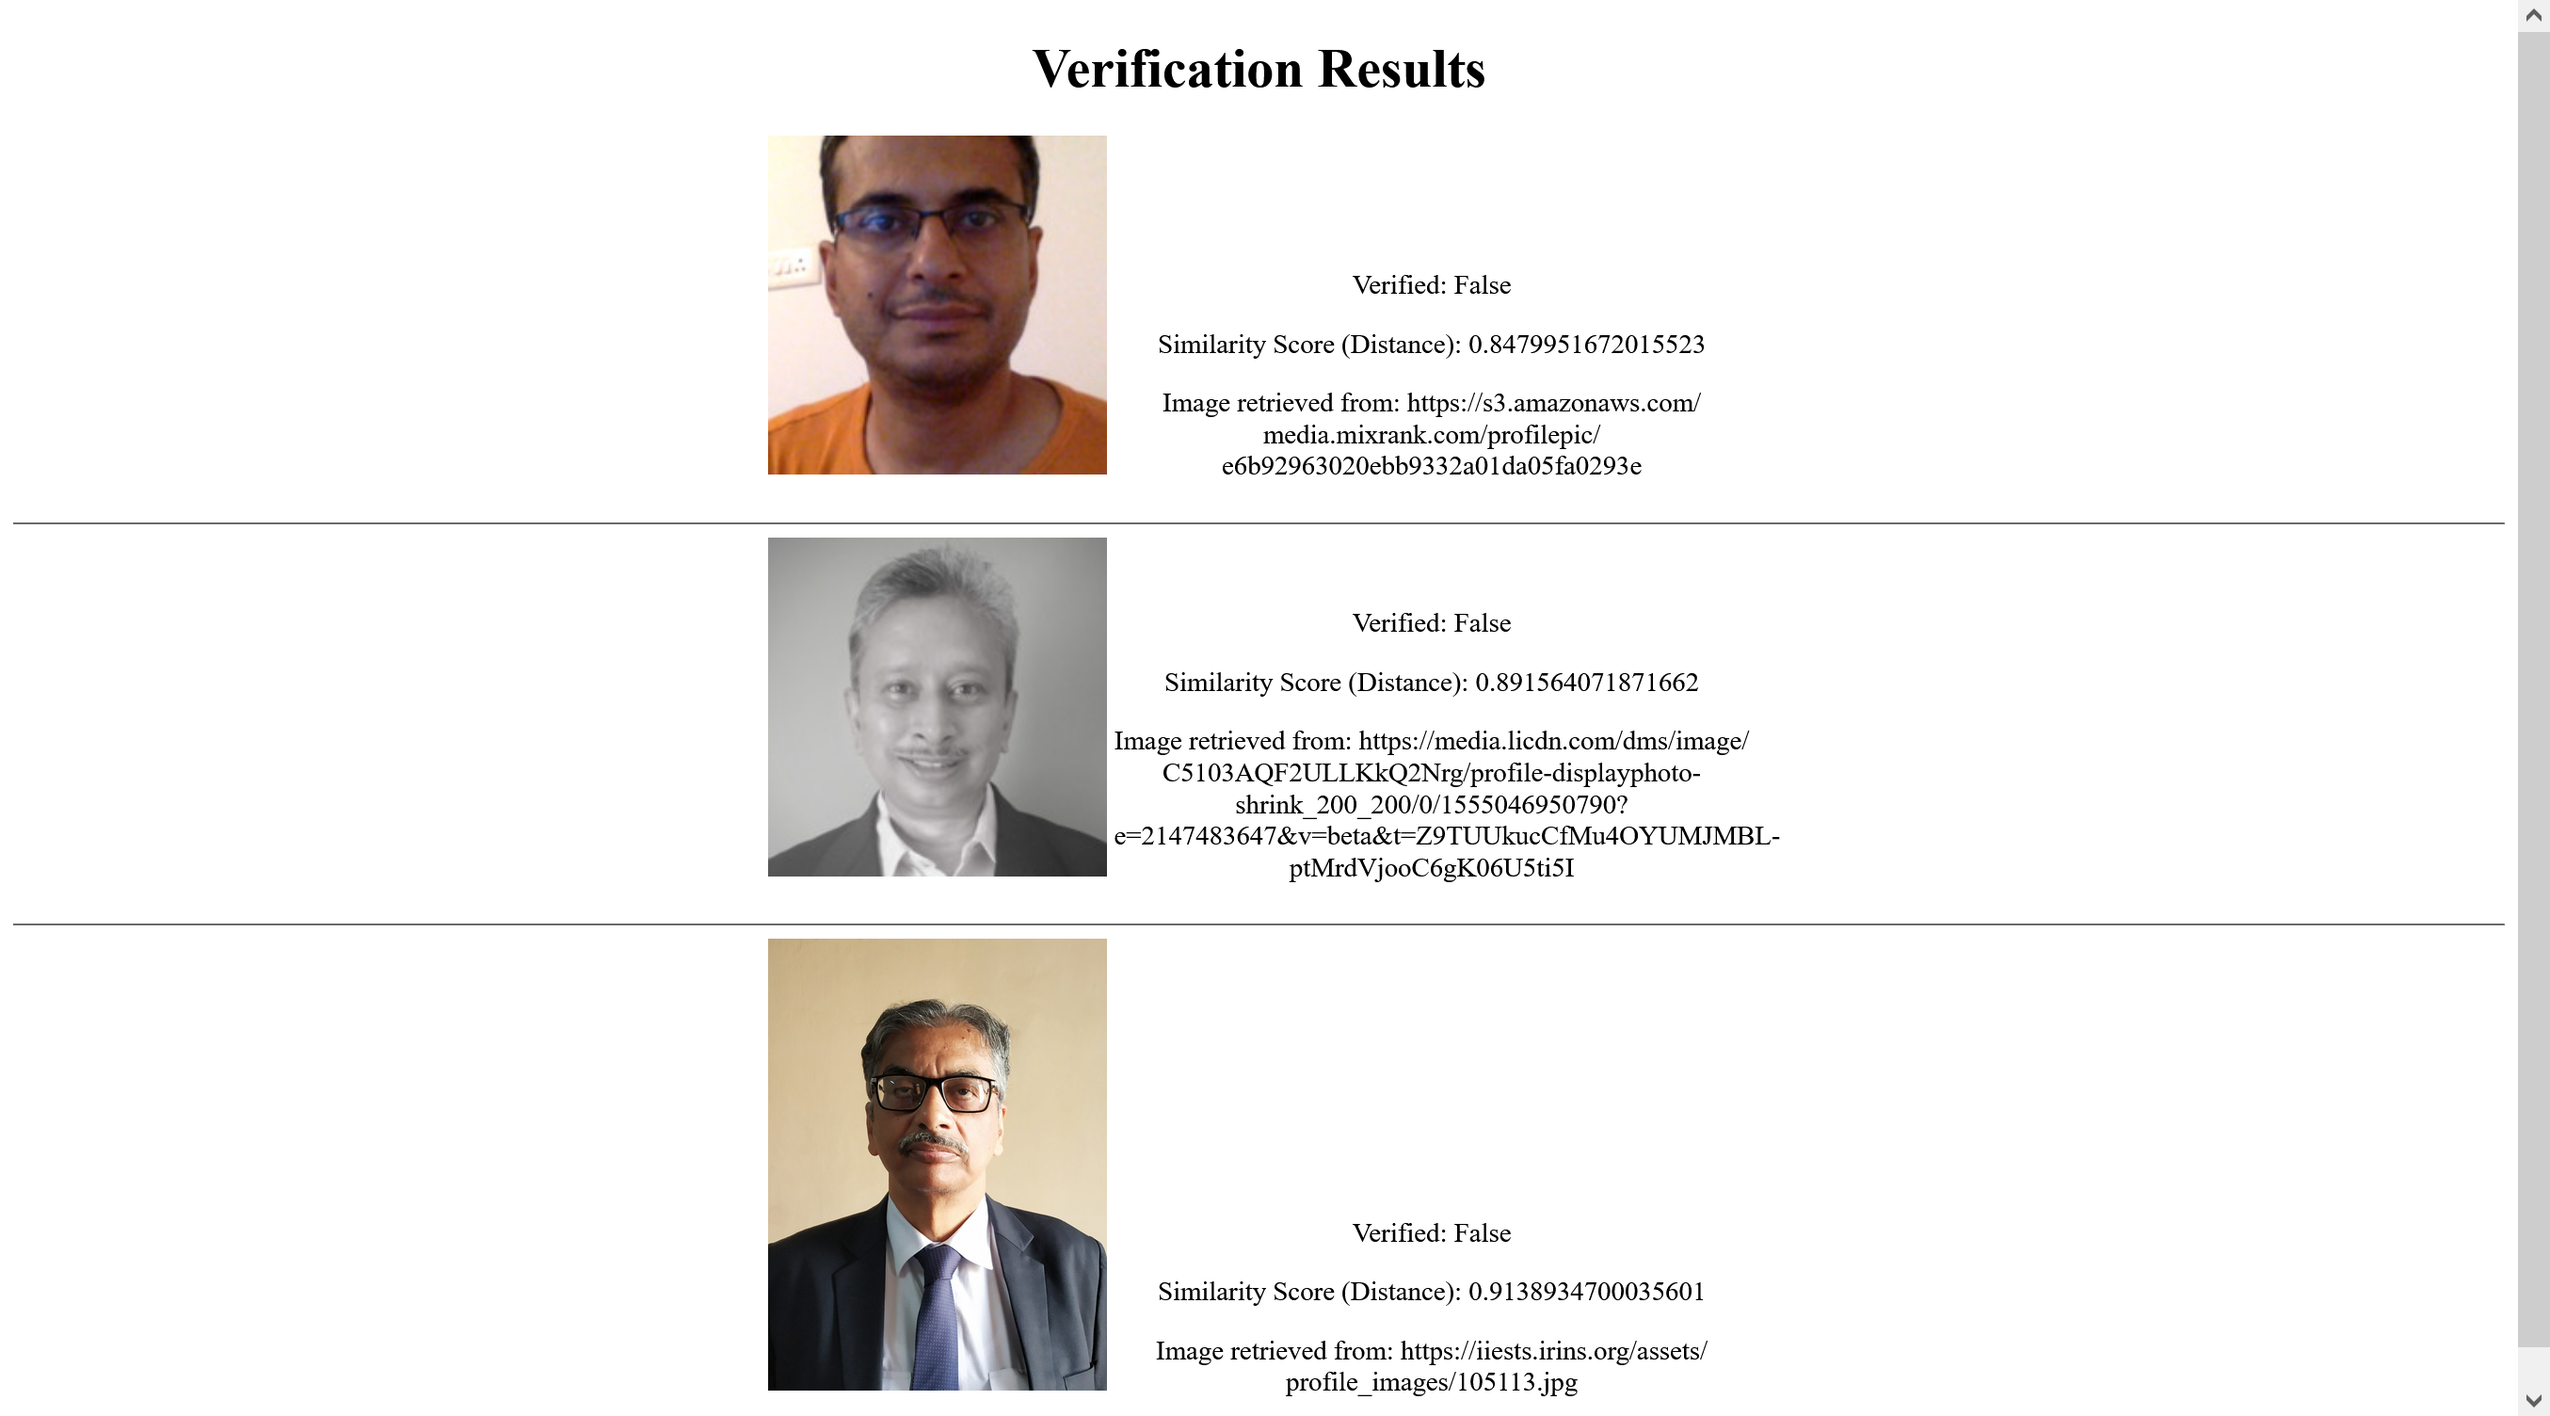
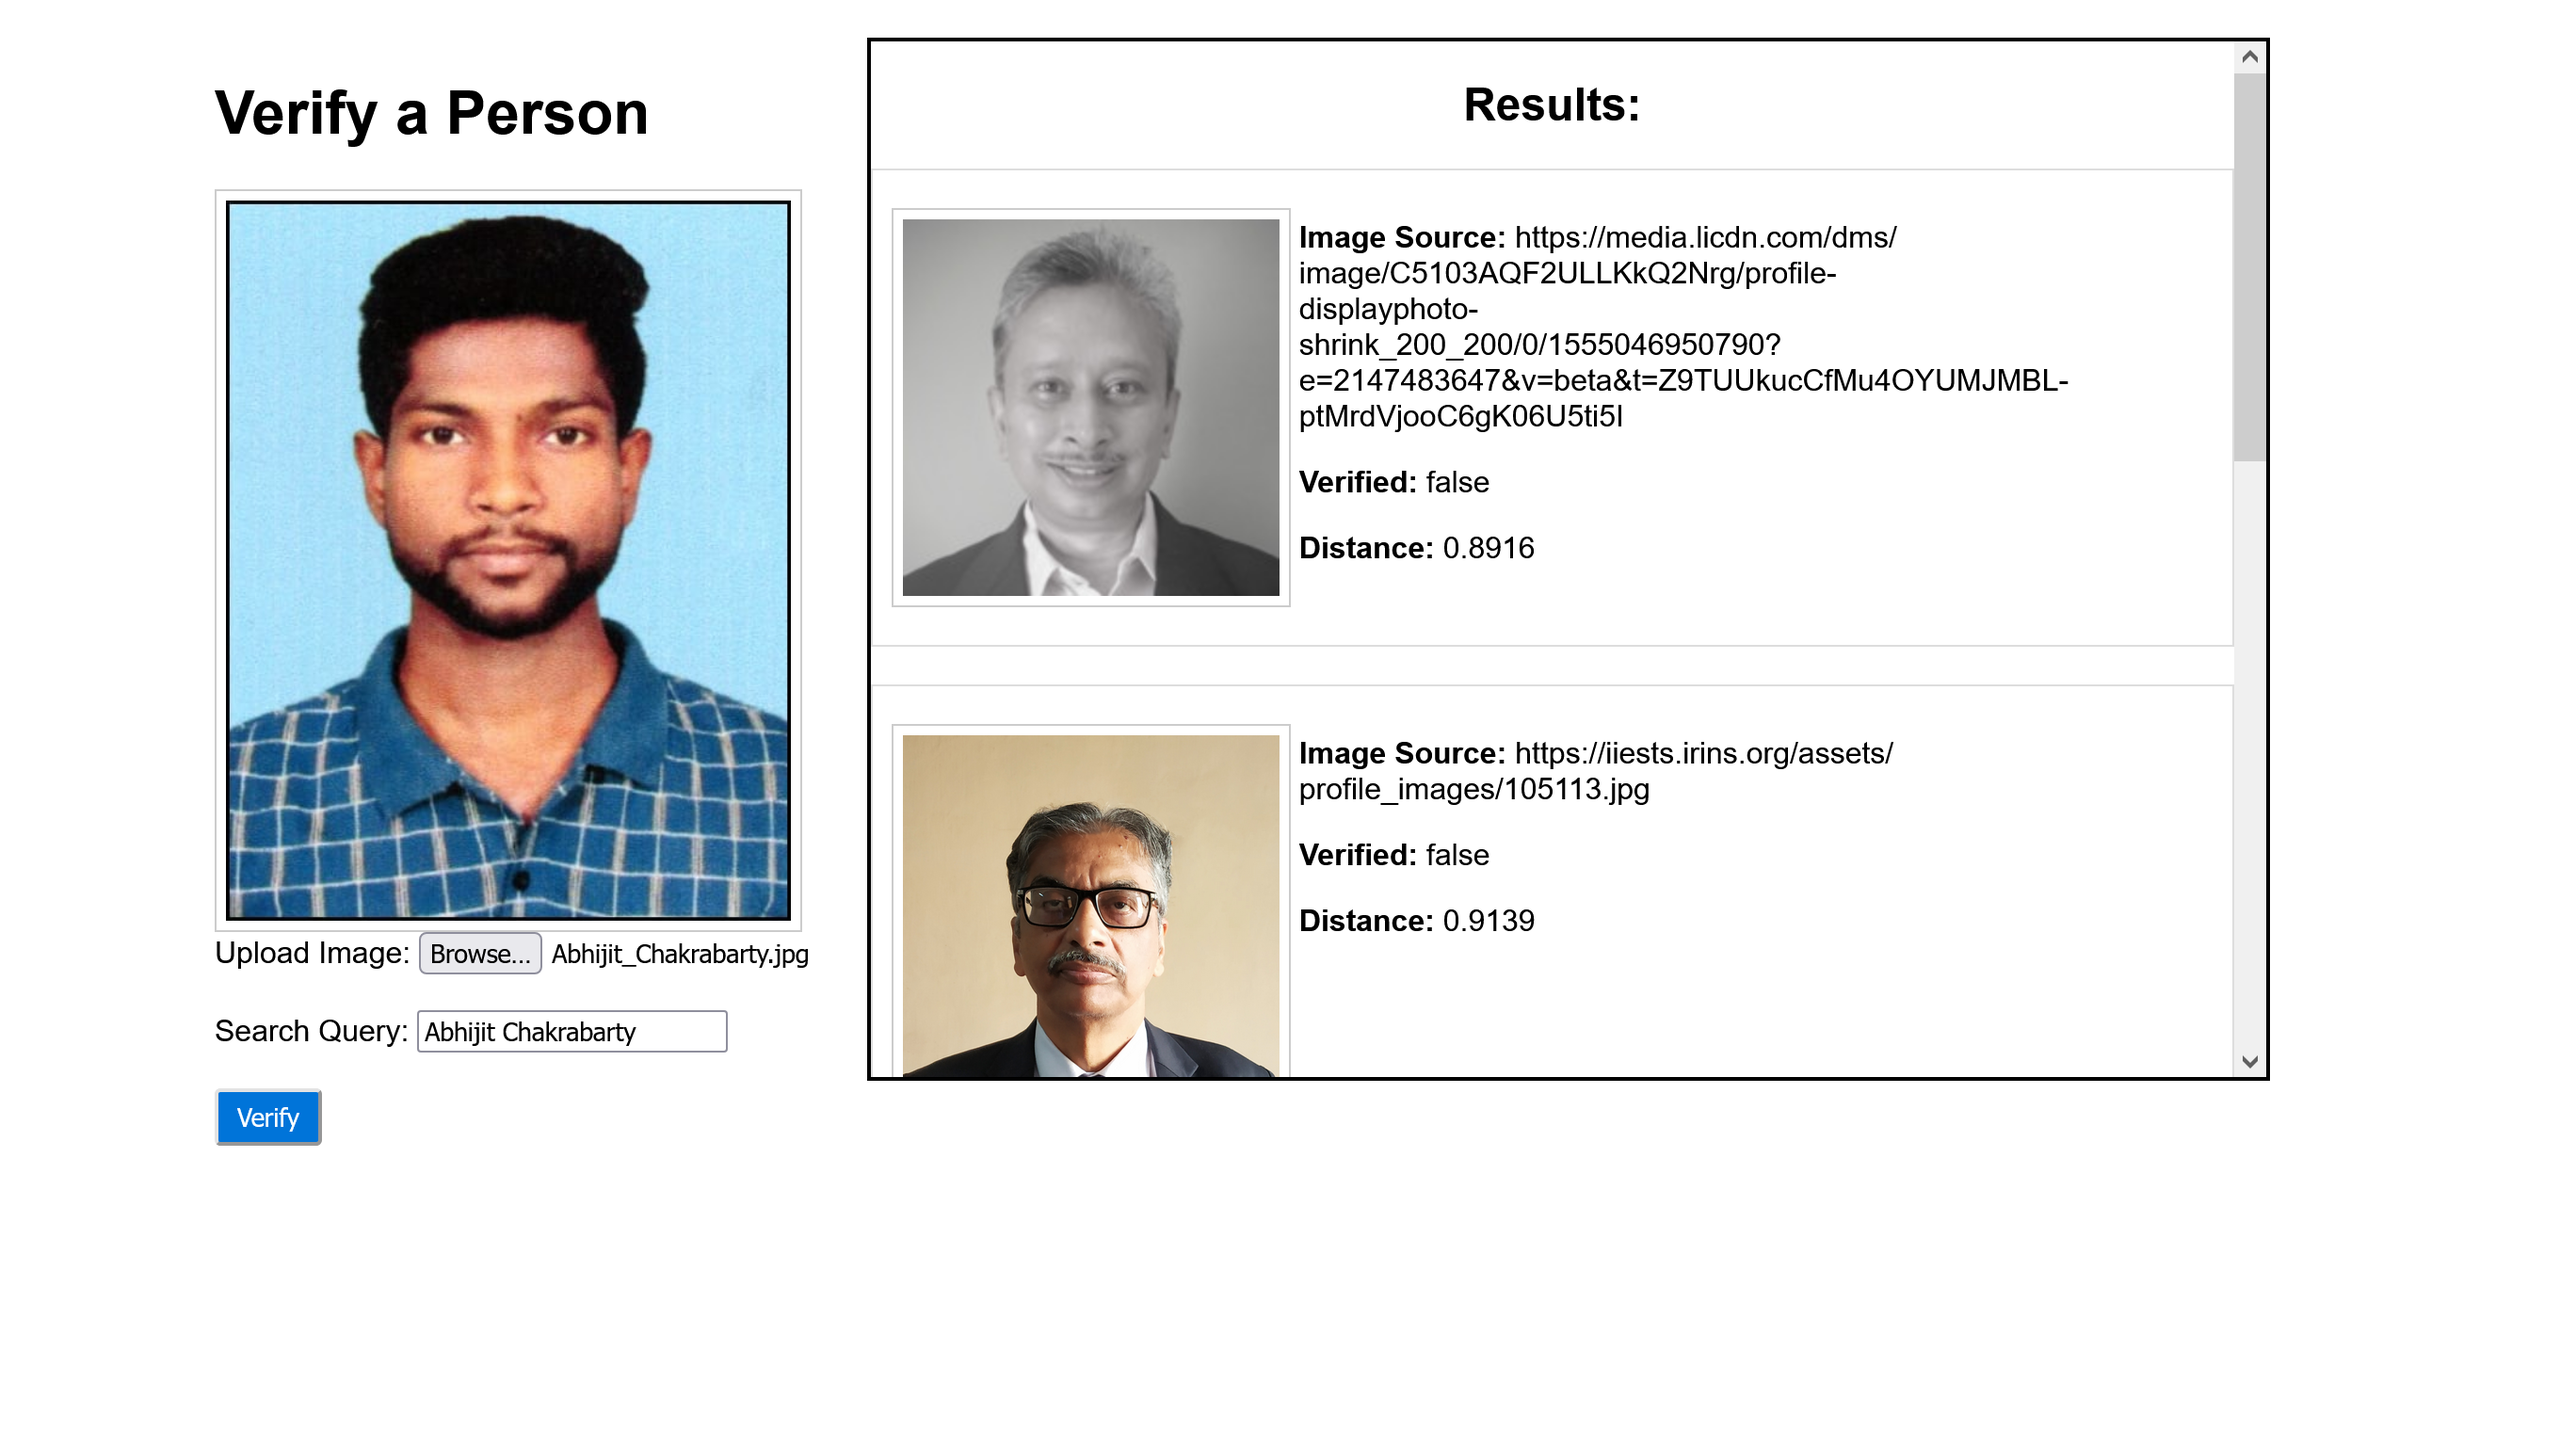
Improved Interface

diff --git a/templates/index.html b/templates/index.html
@@ -3,29 +3,172 @@
 <head>
     <meta charset="UTF-8">
     <meta name="viewport" content="width=device-width, initial-scale=1.0">
+    <link rel="shortcut icon" href="{{ url_for('static', filename='favicon.ico') }}">
     <title>Verify Person</title>
     <style>
-        .verify{
-            background:rgb(13,110,253);
-            color:white;
+        body {
+            font-family: Arial, sans-serif;
+            margin: 20px;
+        }
+        img {
+            max-width: 300px;
+            margin-top: 20px;
+            border: 1px solid #ccc;
+            padding: 5px;
+            display: block;
+        }
+        .container{
+            max-width: 1140px;
+            margin: 0 auto;
+        }
+        #upload{
+            width: 30%;
+            display: inline-block;
+        }
+        #submit{
+            color: #fff;
+            background:#0074d9;
+            border-radius: 3px;
             padding: 5px 10px;
-            font-size: 20px;
-            border-radius: 15px;
+            -webkit-appearance: none;
+        }
+        #results {
+            width:65%;
+            border: 2px solid #000;
+            display: inline-block;
+            min-height: 540px;
+            max-height:550px;
+            overflow-x: hidden;
+            overflow-y: scroll;
+            vertical-align: top;
+        }
+        #results h2{
+            text-align: center;
+        }
+        .result img {
+            max-width: 200px;
+            margin: 10px 0;
+        }
+        .result {
+            border: 1px solid #ddd;
+            padding: 10px;
+            margin-bottom: 20px;
+        }
+        .result .image, .result .info{
+            max-width: 50%;
+            display: inline-block;
+            vertical-align: top;
+        }
+        .error {
+            color: red;
+        }
+        @media screen and (max-width:820px) {
+            #upload{
+            width: 100%;
+            }
+            #results {
+                width:100%;
+            }
         }
     </style>
 </head>
 <body>
-    <div style="max-width: 100%; text-align: center;">
-        <h1>Verify a Person</h1>
-        <form action="/verify" method="post" enctype="multipart/form-data">
-            <label for="file">Upload Image:</label>
-            <input type="file" name="file" id="file" required>
-            <br><br>
-            <label for="query">Search Query (e.g., Name):</label>
-            <input type="text" name="query" id="query" required>
-            <br><br>
-            <button class="verify" type="submit">Verify</button>
-        </form>
+    <div class="container">
+        <div id="upload">
+            <h1>Verify a Person</h1>
+            <div class="photo">
+                <img id="uploadedImage" src="" alt="Uploaded Image" style="display: none;">
+            </div>
+            <form id="uploadForm">
+                <label for="file">Upload Image:</label>
+                <input type="file" name="file" id="file" accept="image/*" required>
+                <br><br>
+                <label for="query">Search Query:</label>
+                <input type="text" name="query" id="query" placeholder=" e.g., Name" required>
+                <br><br>
+                <button id="submit" type="submit">Verify</button>
+            </form>
+        </div>  
+    
+        <div id="results"><h2>Results:</h2></div>
+        <div class="error" id="error"></div>
     </div>
+
+    <script>
+        document.getElementById('file').addEventListener('change', function(e) {
+            e.preventDefault();
+
+            const formData = new FormData();
+            const fileInput = document.getElementById('file');
+            const queryInput = document.getElementById('query');
+            const uploadedImage = document.getElementById('uploadedImage');
+            const resultsDiv = document.getElementById('results');
+            const errorDiv = document.getElementById('error');
+
+            // Reset previous results and errors
+            resultsDiv.innerHTML = '<h2>Results:</h2>';
+            errorDiv.textContent = '';
+
+            
+
+            // Show the uploaded image preview
+            const file = fileInput.files[0];
+            if (file) {
+                const reader = new FileReader();
+                reader.onload = function(e) {
+                    uploadedImage.src = e.target.result;
+                    uploadedImage.style.display = 'block';
+                };
+                reader.readAsDataURL(file);
+            }
+        });
+
+        // Send the form data via AJAX
+        document.getElementById('uploadForm').addEventListener('submit', function(e) {
+            e.preventDefault();
+            const formData = new FormData();
+            const fileInput = document.getElementById('file');
+            const queryInput = document.getElementById('query');
+            const uploadedImage = document.getElementById('uploadedImage');
+            const resultsDiv = document.getElementById('results');
+            const errorDiv = document.getElementById('error');
+            // Append form data
+            formData.append('file', fileInput.files[0]);
+            formData.append('query', queryInput.value);
+            
+            fetch('/verify', {
+                method: 'POST',
+                body: formData
+            })
+            .then(response => response.json())
+            .then(data => {
+                if (data.error) {
+                    errorDiv.textContent = `Error: ${data.error}`;
+                } else if (data.length === 0) {
+                    errorDiv.textContent = 'No results found.';
+                } else {
+                    resultsDiv.innerHTML = '<h2>Results:</h2>';
+                    data.forEach(match => {
+                        const resultDiv = document.createElement('div');
+                        resultDiv.classList.add('result');
+                        resultDiv.innerHTML = `
+                            <div class="image">
+                                <img src="${match.image}" alt="Matched Image">
+                            </div>
+                            <div class="info">
+                                <p><strong>Image Source:</strong> ${match.image}</p>
+                                <p><strong>Verified:</strong> ${match.verified}</p>
+                                <p><strong>Distance:</strong> ${match.distance.toFixed(4)}</p>
+                            </div>
+                        `;
+                        resultsDiv.appendChild(resultDiv);
+                    });
+                }
+            })
+            .catch(err => {
+                errorDiv.textContent = `An error occurred: ${err.message}`;
+            });
+        });
+    </script>
 </body>
 </html>

diff --git a/app.py b/app.py
@@ -122,7 +122,8 @@ def verify_person():
             for path in scraped_image_paths:
                 os.remove(path)
 
-            return render_template('results.html', matches=matches)
+            # return render_template('results.html', matches=matches)
+            return jsonify(matches)
         except Exception as e:
             os.remove(uploaded_path)
             return jsonify({'error': str(e)}), 500
